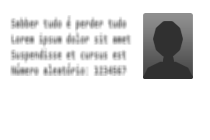
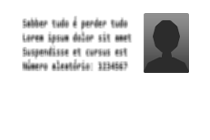
updated images

diff --git a/app/Services/Game/Table.php b/app/Services/Game/Table.php
@@ -15,7 +15,7 @@ use App\Services\CallbackDataManager as CDM;
 class Table {
     
     static $border = 15;
-    static $fontSize = 23;
+    static $fontSize = 21;
 
     static function send(Game $game, BotApi $bot, string $hint = null, bool $sendToMasters = true, string $winner = null) {
         $chatId = $game->chat_id;
@@ -164,19 +164,19 @@ class Table {
         $textLen = strlen($card->text);
         if($textLen<9) {
             $fontSize = self::$fontSize;
-            $bottomSpace = 0;
+            $bottomSpace = 5;
         } else if($textLen<11) {
-            $fontSize = self::$fontSize-4;
-            $bottomSpace = 2;
+            $fontSize = self::$fontSize-2;
+            $bottomSpace = 5 + 1;
         } else {
-            $fontSize = self::$fontSize-8;
-            $bottomSpace = 4;
+            $fontSize = self::$fontSize-6;
+            $bottomSpace = 5 + 3;
         }
         $textBox = imagettfbbox($fontSize, 0, $fontPath, $card->text);
         $textWidth = $textBox[2] - $textBox[0];
         //$textHeight = $textBox[1] - $textBox[7]; usuless for now
         $textX = (210 - $textWidth) / 2;
-        $textY = 120 - $bottomSpace;
+        $textY = 115 - $bottomSpace;
         #endregion
 
         switch ($card->team) {
@@ -196,10 +196,15 @@ class Table {
         }
 
         $masterCardImage = imagecreatefrompng(public_path("images/{$colorMaster}_card.png"));
-        $textColor = imagecolorallocate($masterCardImage, 0, 0, 0);
-        imagefttext($masterCardImage, $fontSize, 0, $textX, $textY, $textColor, $fontPath, $card->text);
 
         if($card->revealed) {
+            if($colorMaster=='black') {
+                $textColor = imagecolorallocate($masterCardImage, 255, 255, 255);
+            } else {
+                $textColor = imagecolorallocate($masterCardImage, 0, 0, 0);
+            }
+            imagefttext($masterCardImage, $fontSize, 0, $textX, $textY, $textColor, $fontPath, $card->text);
+            
             $revealedImage = imagecreatefrompng(public_path("images/revealed_card.png"));
             imagecopy($masterCardImage, $revealedImage, 0, 0, 0, 0, 210, 140);
         } else {

diff --git a/app/Actions/Game/ChosenGuess.php b/app/Actions/Game/ChosenGuess.php
@@ -44,6 +44,7 @@ class ChosenGuess implements Action {
     }
 
     private function next(User $user, Game $game, $bot) {
+        $game->updateStatus($game->status);
         $cardsLeft = $game->cards->where('team', $user->team)->where('revealed', false)->count();
         if($cardsLeft > 0) {
             Table::send($game, $bot);

diff --git a/app/Http/Controllers/CodinomesController.php b/app/Http/Controllers/CodinomesController.php
@@ -6,7 +6,7 @@ use App\Services\AppString;
 use App\UpdateHandlers\Factory;
 use Illuminate\Http\Request;
 use App\Models\TelegramUpdate;
-use TelegramBot\Api\BotApi;
+use App\Services\Telegram\BotApi;
 use App\Services\ServerLog;
 use TelegramBot\Api\Types\Update;
 use Throwable;
